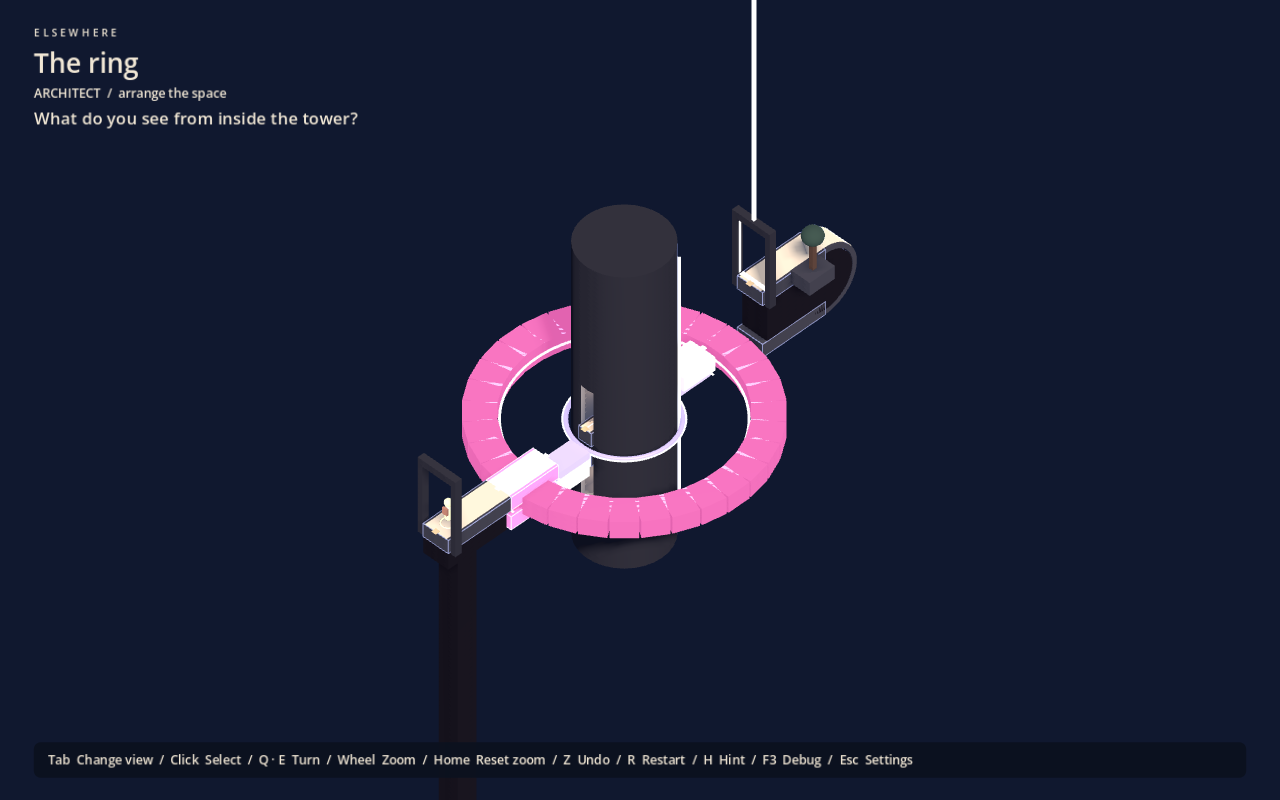
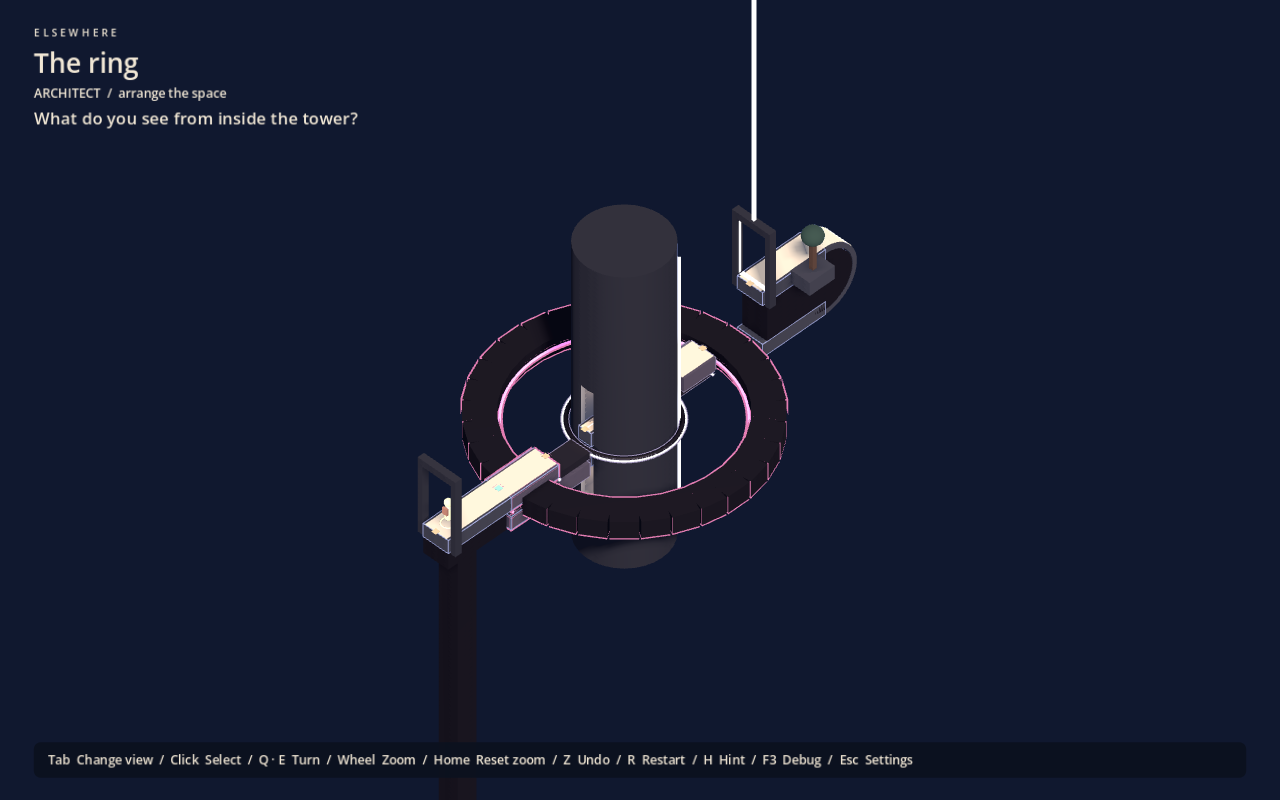
Show selection as an outline instead of a fill
The additive fill washed over moving structures and hid the geometry the
puzzle is read by. Hover and selection now draw an inverted-hull outline
just outside the assembly, in its own accent colour: thin and dim on hover,
slightly thicker and brighter when selected. Faces, paving and edges stay
untouched.

Changed region(s): [[0.3438, 0.375, 0.625, 0.6875]]

diff --git a/docs/skill.md b/docs/skill.md
@@ -49,7 +49,7 @@ These are proven behaviours; break them only with an explicit spec change.
 6. **Rejected turns** change nothing: no state, no snapshot, no undo entry. Recovery by withdrawing or undoing must always be possible.
 7. **Snapshots.** Undo, checkpoints and saves restore structure states, occupied path, local pose, both camera layers, path activity, locks and interactions. Saves are per level (`user://authored-<level_id>.save`) and guarded by level id + revision + contact validity.
 8. **Camera B (§9–11).** Transport the previous camera frame by the shortest change in ground normal; never rebuild heading from support axes or inherit yaw about an unchanged normal (turntable turns do not orbit the view). The composition (focus, size, azimuth, elevation) is authored per monument and expressed in the ground frame; there is **no orbit layer**. Zoom stays within 0.8–1.25, Tab never resets it and Home resets only zoom. Character look never affects the isometric view.
-11. **Diegetic selection.** The HUD never lists movable structures. In isometric the player points at a structure: `pick_rig` ray-tests only movable assemblies' own meshes (boxes exactly, rings as flat annuli), so static architecture never steals a click and hidden interiors are never pickable. Hover and selection glow in the structure's own accent (rotator `tint`), only in isometric.
+11. **Diegetic selection.** The HUD never lists movable structures. In isometric the player points at a structure: `pick_rig` ray-tests only movable assemblies' own meshes (boxes exactly, rings as flat annuli), so static architecture never steals a click and hidden interiors are never pickable. Hover and selection draw an outline in the structure's own accent (rotator `tint`, `runtime/outline.gdshader`), never a fill that hides geometry, and only in isometric.
 12. **Colour language.** An accent light means *this moves*, and each moving assembly has one accent (its rotator `tint`). Warm white is information and destination. Static architecture is neutral and never carries a mover's accent. Fix unreadable relationships with composition, fades or framing, not camera freedom.
 9. **Controls.** On ordinary ground, fresh movement input follows the projected camera; transported controls apply only on the authored curve during a held gesture. Mouse look alone never turns the avatar.
 10. **Play From Here** never loads or writes normal progress, and editor preview never mutates authored transforms.
